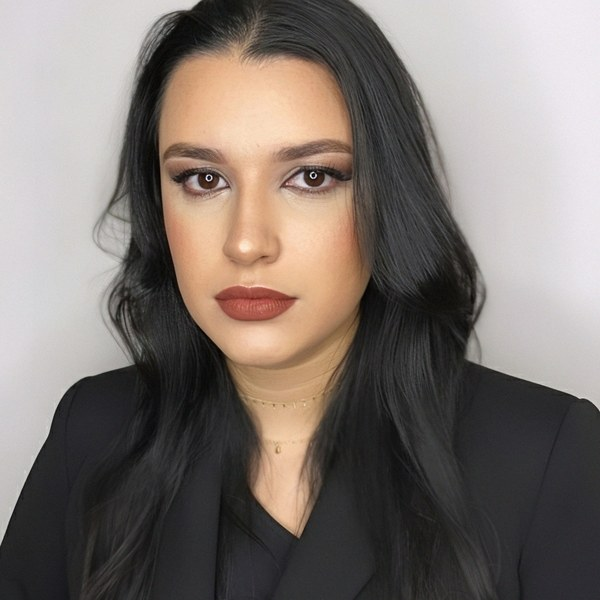
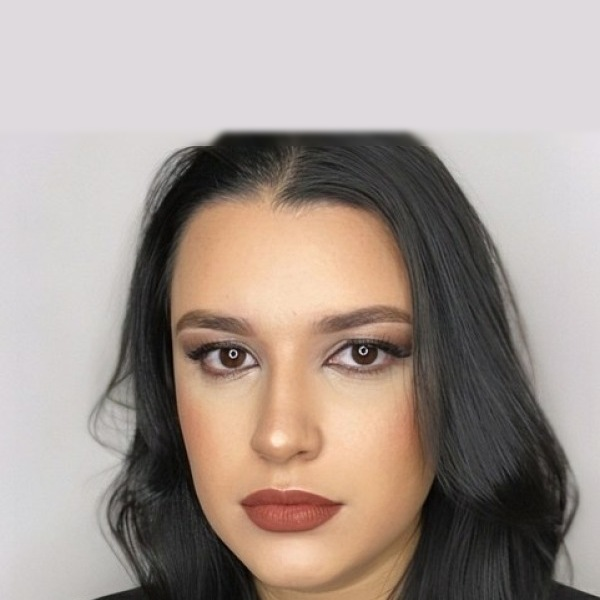
fix(team): give Larissa portrait real headroom in card
Source crown sits on the file edge; pad the studio plate from the
face-centered asset so the specialist frame no longer flushes her hair.

diff --git a/app/globals.css b/app/globals.css
@@ -1696,11 +1696,10 @@ footer .heading-lg,
   transform: scale(1.04);
   transform-origin: center 32%;
 }
-/* Larissa: restored original studio portrait — pull-back so crown clears frame. */
+/* Larissa: studio source with padded headroom plate — keep crown clear of frame edge. */
 .team-photo--larissa .team-card-photo {
-  object-position: 50% 32%;
-  transform: scale(0.92);
-  transform-origin: center 24%;
+  object-position: 50% 40%;
+  transform: none;
 }
 .team-photo--milla .team-card-photo { object-position: 50% 40%; }
 .team-photo--bianca .team-card-photo { object-position: 50% 40%; }
